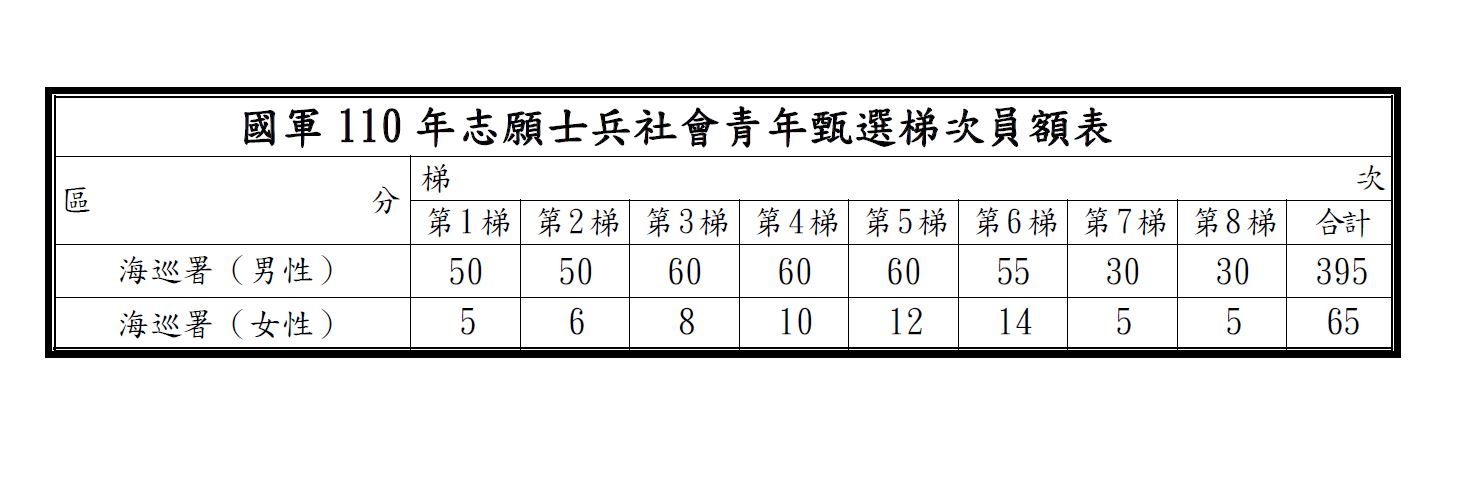
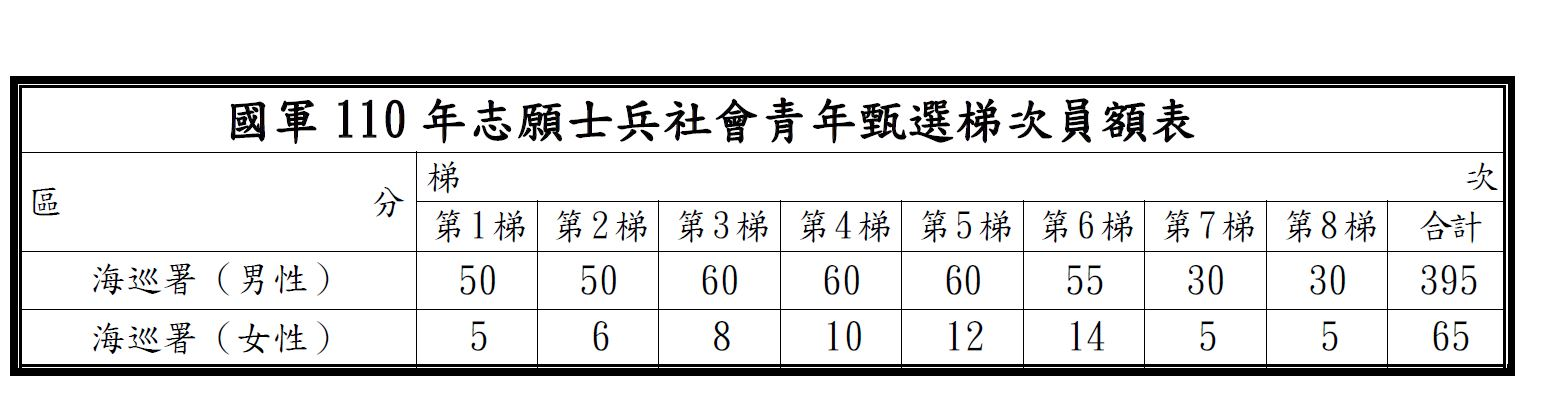
1218_1

diff --git a/index.html b/index.html
@@ -555,10 +555,10 @@
                                         <a href="images/110甄選作業期程表.jpg" class="popup-link" data-effect="fadeIn">
                                             <img class="img-fluid" src="images/110甄選作業期程表.jpg" width="80%" alt="alternative">
                                         </a>
-                                        <a href="images/員額表.jpg" class="popup-link" data-effect="fadeIn">
-                                            <img class="img-fluid" src="images/員額表.jpg" width="80%" alt="alternative">
+                                        <a href="images/員額表.JPG" class="popup-link" data-effect="fadeIn">
+                                            <img class="img-fluid" src="images/員額表.JPG" width="80%" alt="alternative">
                                         </a>
-                              
+                               
                                     </div> <!-- end of col -->
                                    
                                 </div>
